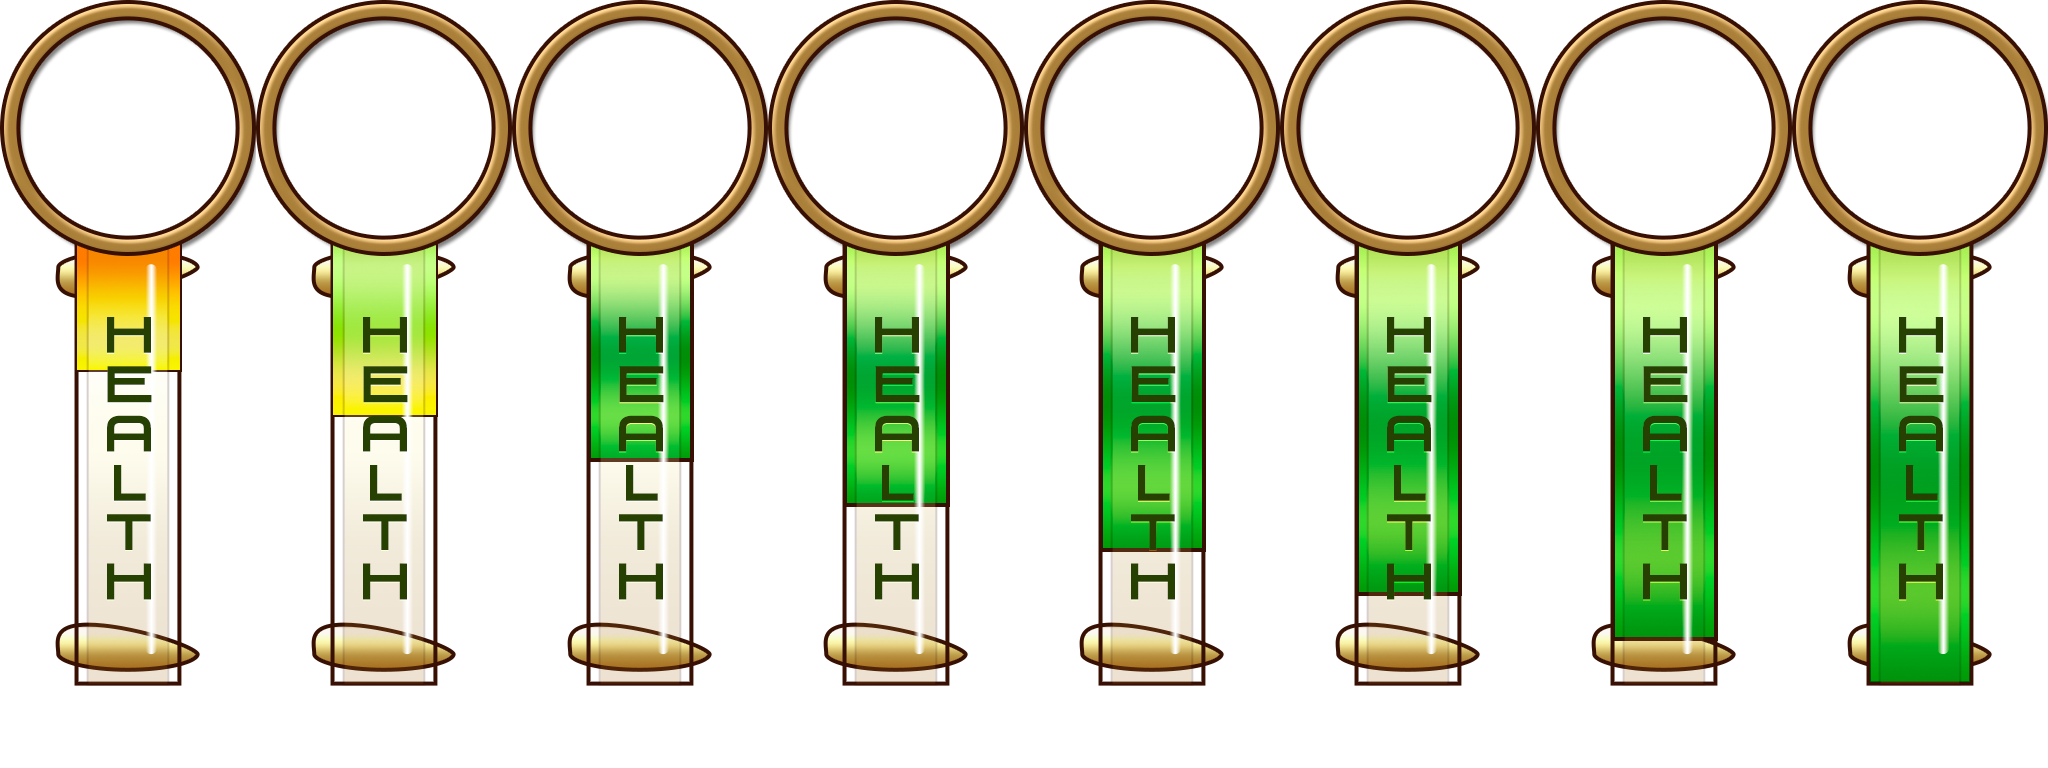
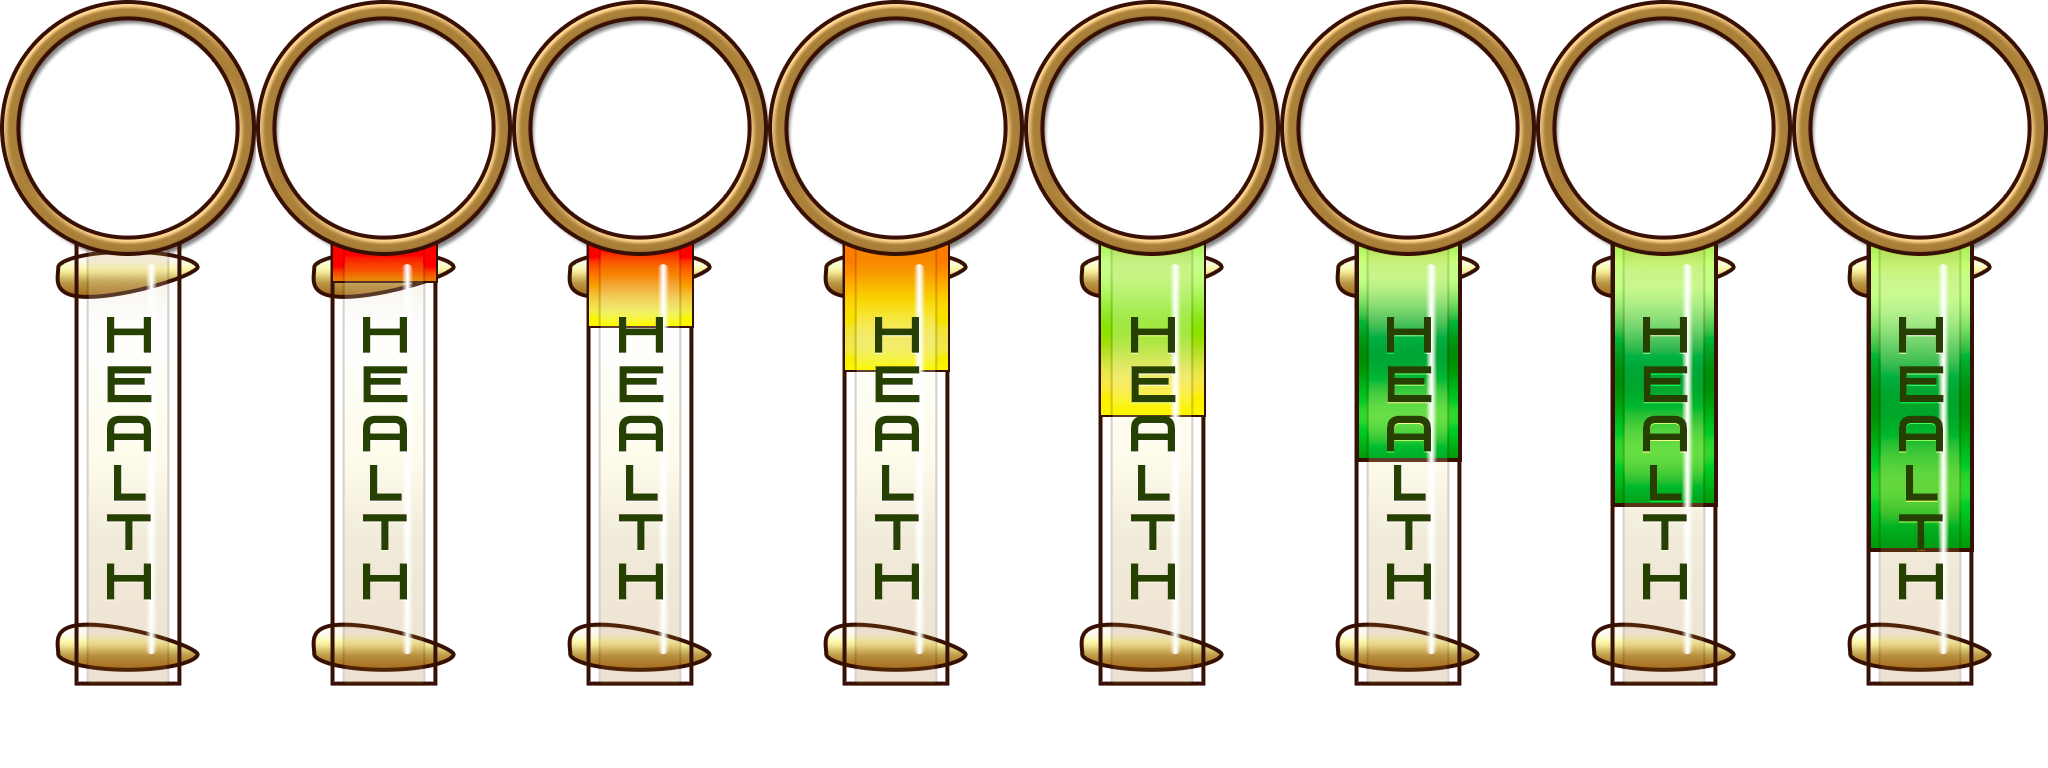
add health

diff --git a/core/src/com/go/gopirates/screen/PlayScreen.java b/core/src/com/go/gopirates/screen/PlayScreen.java
@@ -25,6 +25,7 @@ import com.go.gopirates.sprites.items.ItemDef;
 import com.go.gopirates.sprites.items.explosiveItems.Bomb;
 import com.go.gopirates.sprites.items.explosiveItems.ExplosiveItem;
 import com.go.gopirates.sprites.items.explosiveItems.TNT;
+import com.go.gopirates.sprites.items.noneInteractiveItems.HealthSprite;
 import com.go.gopirates.sprites.items.noneInteractiveItems.NonInteractiveSprites;
 import com.go.gopirates.sprites.items.noneInteractiveItems.ShieldSprite;
 import com.go.gopirates.sprites.items.noneInteractiveItems.ShoeSprite;
@@ -54,6 +55,7 @@ public class PlayScreen implements Screen {
     private TextureAtlas atlas;
     public Animation explosionAnimation;
     public Animation coconutAnimation;
+    public Array<TextureRegion> healthTexture;
 
     //basic playscreen variables
     private OrthographicCamera gamecam;
@@ -143,6 +145,7 @@ public class PlayScreen implements Screen {
         swordConfirm=true;
         coconutConfirmTimer=0;
         coconutConfirm=true;
+        getPirate().nonInteractiveSprites.add(new HealthSprite(this));
     }
 
 
@@ -163,7 +166,18 @@ public class PlayScreen implements Screen {
         for (int i = 0; i < 4; i++)
             coconutFrames.add(new TextureRegion(coconutTexture, PirateGame.TILE_SIZE*i, 0, PirateGame.TILE_SIZE, PirateGame.TILE_SIZE));
         coconutAnimation = new Animation(0.1f, coconutFrames);
+
+        healthTexture=new Array<TextureRegion>();
+        Texture healthTexureAll1=new Texture("img/hud/health_1.png");
+        for (int i = 0; i < 8; i++) {
+            healthTexture.add(new TextureRegion(healthTexureAll1,i*256,0,256,768));
+        }
+        Texture healthTexutreAll2=new Texture("img/hud/health_2.png");
+        for (int i = 8; i < 11; i++) {
+            healthTexture.add(new TextureRegion(healthTexutreAll2,(i-8)*256,0,256,768));
+        }
     }
+
 
     public void handleSpawningItems() {
         if (!itemsToSpawn.isEmpty()) {

diff --git a/core/src/com/go/gopirates/sprites/items/noneInteractiveItems/HealthSprite.java b/core/src/com/go/gopirates/sprites/items/noneInteractiveItems/HealthSprite.java
@@ -1,12 +1,38 @@
 package com.go.gopirates.sprites.items.noneInteractiveItems;
 
+import com.badlogic.gdx.graphics.g2d.Batch;
+import com.badlogic.gdx.physics.box2d.Body;
+import com.badlogic.gdx.physics.box2d.World;
+import com.go.gopirates.PirateGame;
+import com.go.gopirates.screen.PlayScreen;
+
 /**
  * Created by Amy on 6/4/16.
  */
 public class HealthSprite extends NonInteractiveSprites{
 
+
+
+    PlayScreen screen;
+    World world;
+    Body b2body;
+
+    public HealthSprite(PlayScreen screen) {
+        this.screen = screen;
+        this.world = screen.getWorld();
+        setOrigin(256*1.5f/2/PirateGame.PPM,768*1.5f/2/PirateGame.PPM);
+        setSize(256*1.5f/PirateGame.PPM,768*1.5f/PirateGame.PPM);
+        setPosition(0.75f*PirateGame.TILE_SIZE/PirateGame.PPM,
+                    2.25f*PirateGame.TILE_SIZE/PirateGame.PPM);
+    }
+
+
     @Override
     public void update(float dt) {
+        setRegion(screen.healthTexture.get(screen.getPirate().health));
+    }
 
+    public void draw(Batch batch){
+        super.draw(batch);
     }
 }

diff --git a/core/src/com/go/gopirates/PirateGame.java b/core/src/com/go/gopirates/PirateGame.java
@@ -29,7 +29,7 @@ public class PirateGame extends Game {
     public static  int DEFAULT_VELOCITY =100;
     public static final float BUTTON_INTERVAL=1f;
     public static final float POWERUP_TIME=10f;
-    public static final int ININTIAL_HEALTH=5;
+    public static final int ININTIAL_HEALTH=10;
     public static final float PROTECTED_TIME_AFTER_DECREASE_HEALTH=1.5f;
     public static final float SWORD_VALID_TIME=2f;
     public static final int INITIAL_COCONUT = 1;

diff --git a/core/src/com/go/gopirates/sprites/Pirate.java b/core/src/com/go/gopirates/sprites/Pirate.java
@@ -38,7 +38,7 @@ public class Pirate extends Sprite {
     public World world;
     public Body b2body;
 
-    private int health;
+    public  int health;
     private float healthTimer;
     public boolean swordInUse;
 

diff --git a/core/src/com/go/gopirates/EventMessage.java b/core/src/com/go/gopirates/EventMessage.java
@@ -5,4 +5,5 @@ package com.go.gopirates;
  */
 public class EventMessage {
 
+
 }
